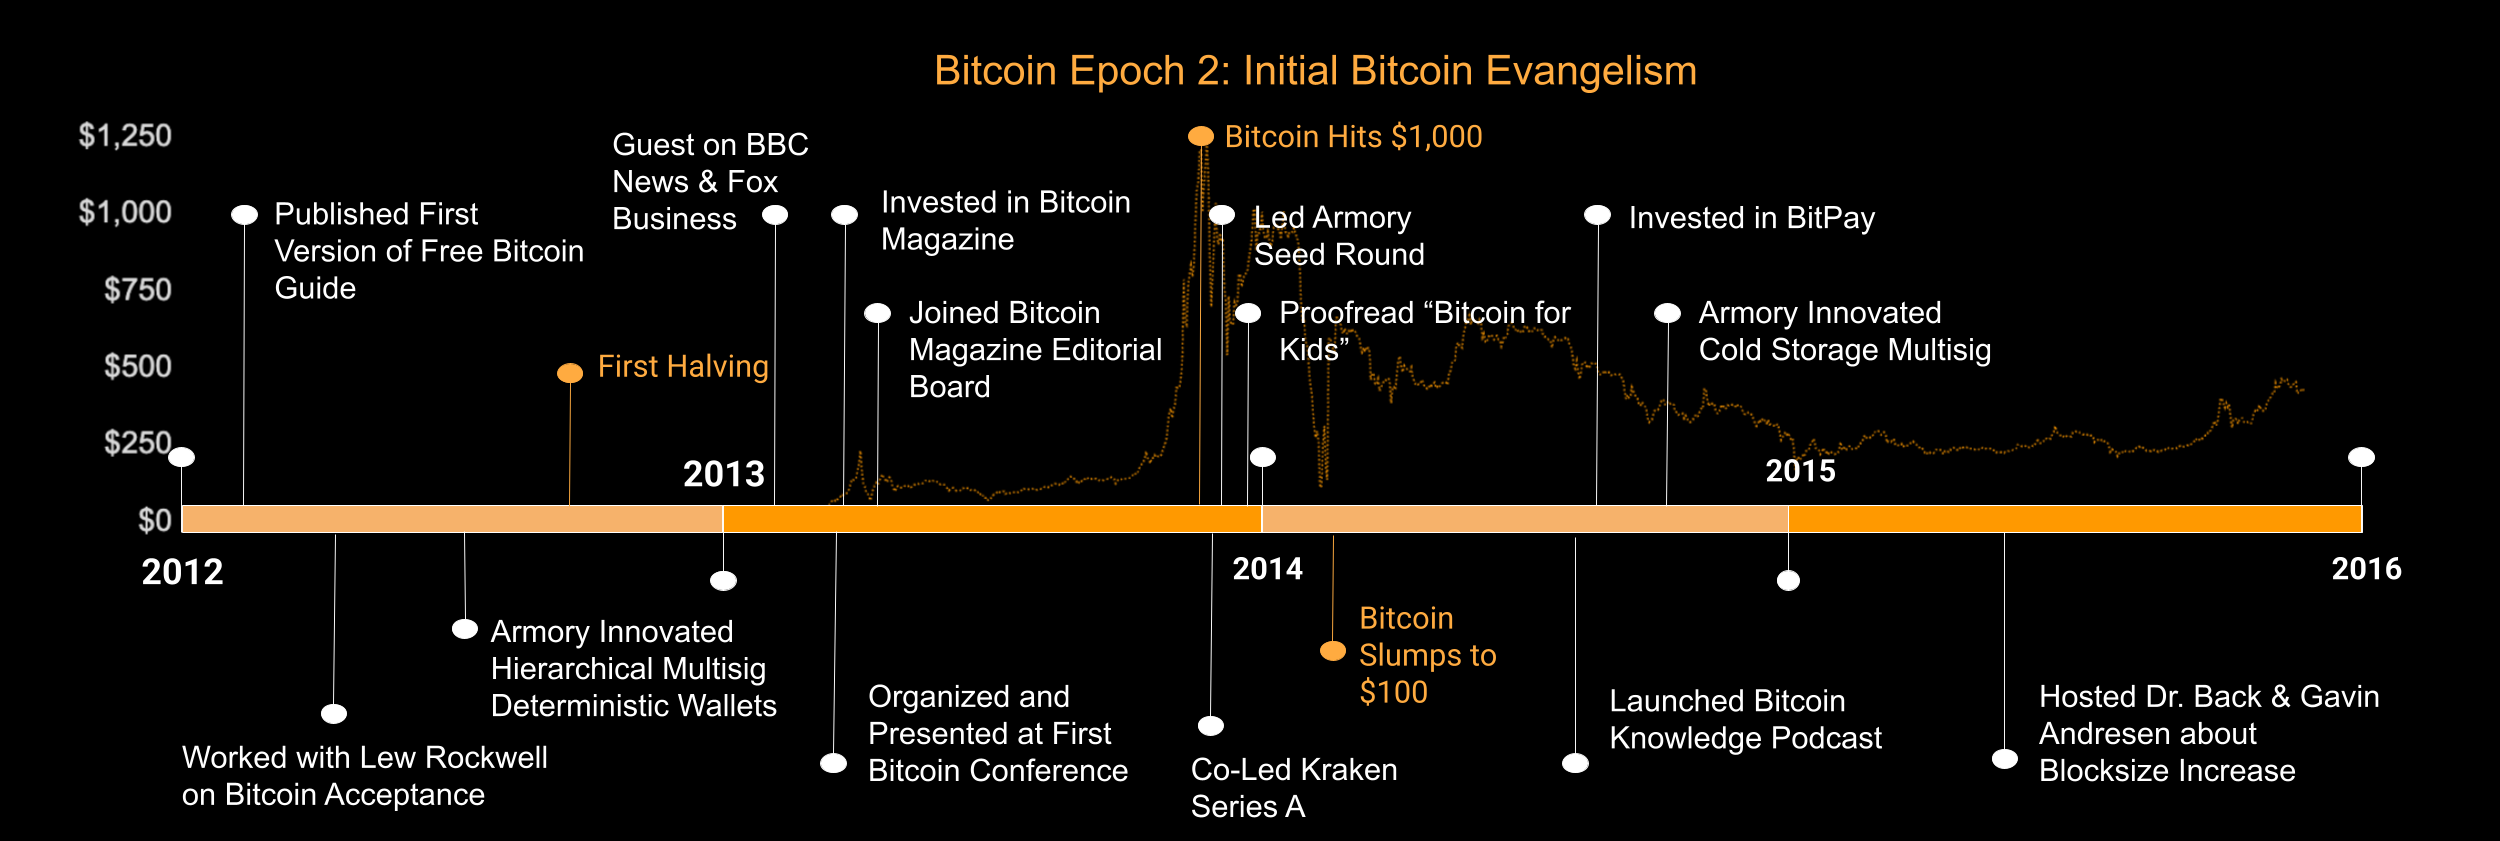
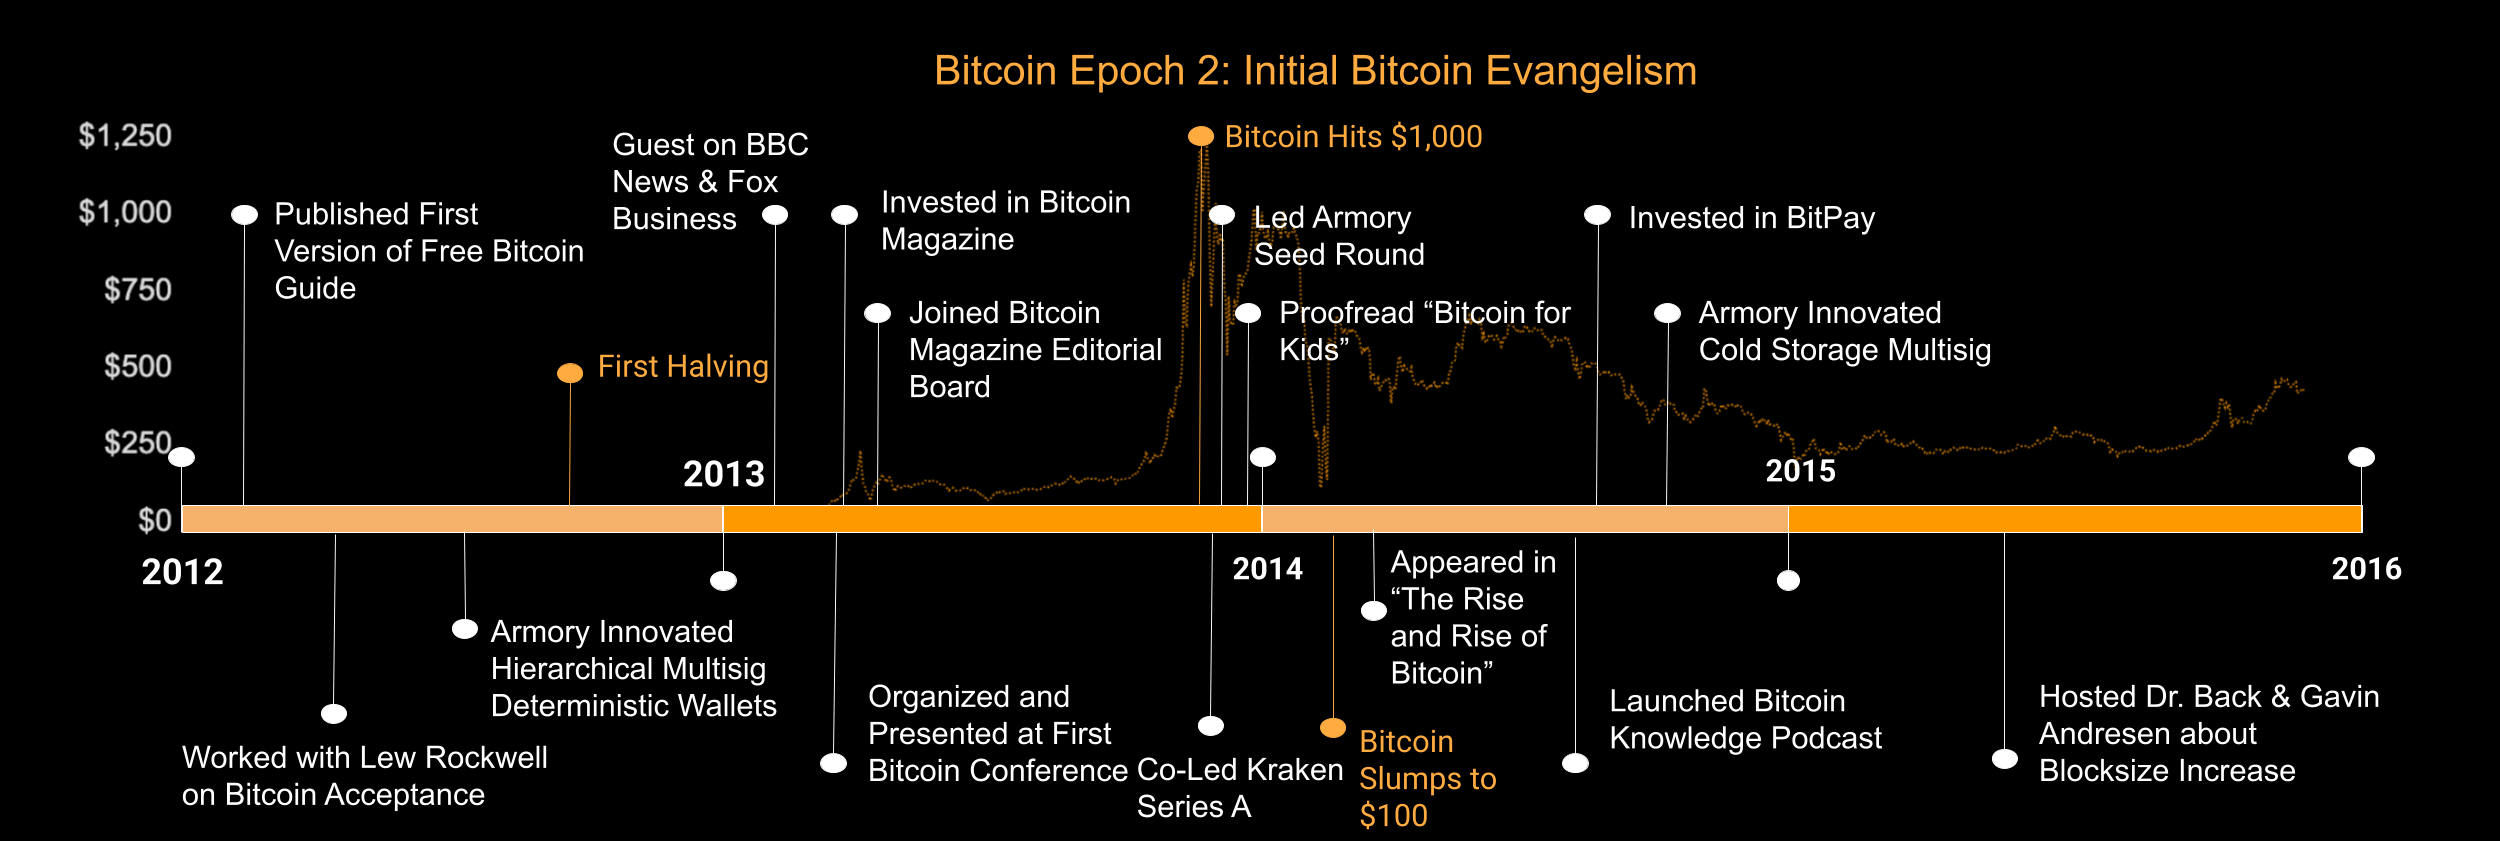
fixed timeline

Changed region(s): [[0.4368, 0.6492, 0.624, 0.9893]]

diff --git a/_includes/page_sections/proof_of_work/epoch_2.html b/_includes/page_sections/proof_of_work/epoch_2.html
@@ -30,6 +30,8 @@
         <a href="https://www.bitcoin.kn/2019/10/stephen-livera-ultimate-collateral/" class="text-link" target="_blank">Stephen Livera</a>.
       </p>
 
+      <p>That same year, Trace had a cameo in <a href="https://www.youtube.com/watch?v=A06qdTpOYcg" class="text-link" target="_blank">"The Rise and Rise of Bitcoin"</a>, the first Bitcoin documentary.</p>
+
       <p>Soon after the launch of the Bitcoin Knowledge Podcast launched, Armory entered its cold storage mutisig phase in April 2014, giving crypto wallets a secure way to store currency for the private keys required for transactions, resulting in the utmost protection from theft.</p>
 
       <p>Trace&rsquo;s momentum only gained in the following years. In 2015, he presented an <a href="https://www.youtube.com/watch?v=TCU-soMs1wY" class="text-link" target="_blank">impromptu speech</a> at the Bitcoin Event at LaGuardia Community College: The Future of Cryptocurrency. There, Trace discussed what the future would be for Bitcoin and why. He dove into the background of Bitcoin, his investments, use cases for Bitcoin, and network effects with Bitcoin.</p>

diff --git a/_includes/page_sections/proof_of_work/epoch_4.html b/_includes/page_sections/proof_of_work/epoch_4.html
@@ -15,7 +15,6 @@
       </ul>
       <p>While increasing his investing footprint during the wave of institutional adoption, Trace was also instrumental in driving forward regulatory progress. In March 2022, Utah Governor Cox signed the bill to create the Utah Blockchain Task Force. That same month, Trace was <a href="https://boards.utah.gov/s/board/related/a018y0000047HH3AAM/Board_Seats__r">appointed to the Utah Blockchain Task Force.</a></p>
       <p>His most recent investment and business venture was founding <a href="https://www.urimcapital.com/" class="text-link" target="_blank">Urim Capital</a> in 2022. This firm is focused on early-stage cryptocurrency related projects, real estate, and software development.</p>
-      <p>In 2024, Trace had a cameo in <a href="https://www.youtube.com/watch?v=A06qdTpOYcg" class="text-link" target="_blank">"The Rise and Rise of Bitcoin"</a>, the first Bitcoin documentary.</p>
 
       <p>This is not the end for Trace, but rather a continuation of infinite possibilities.</p>
     </div>
